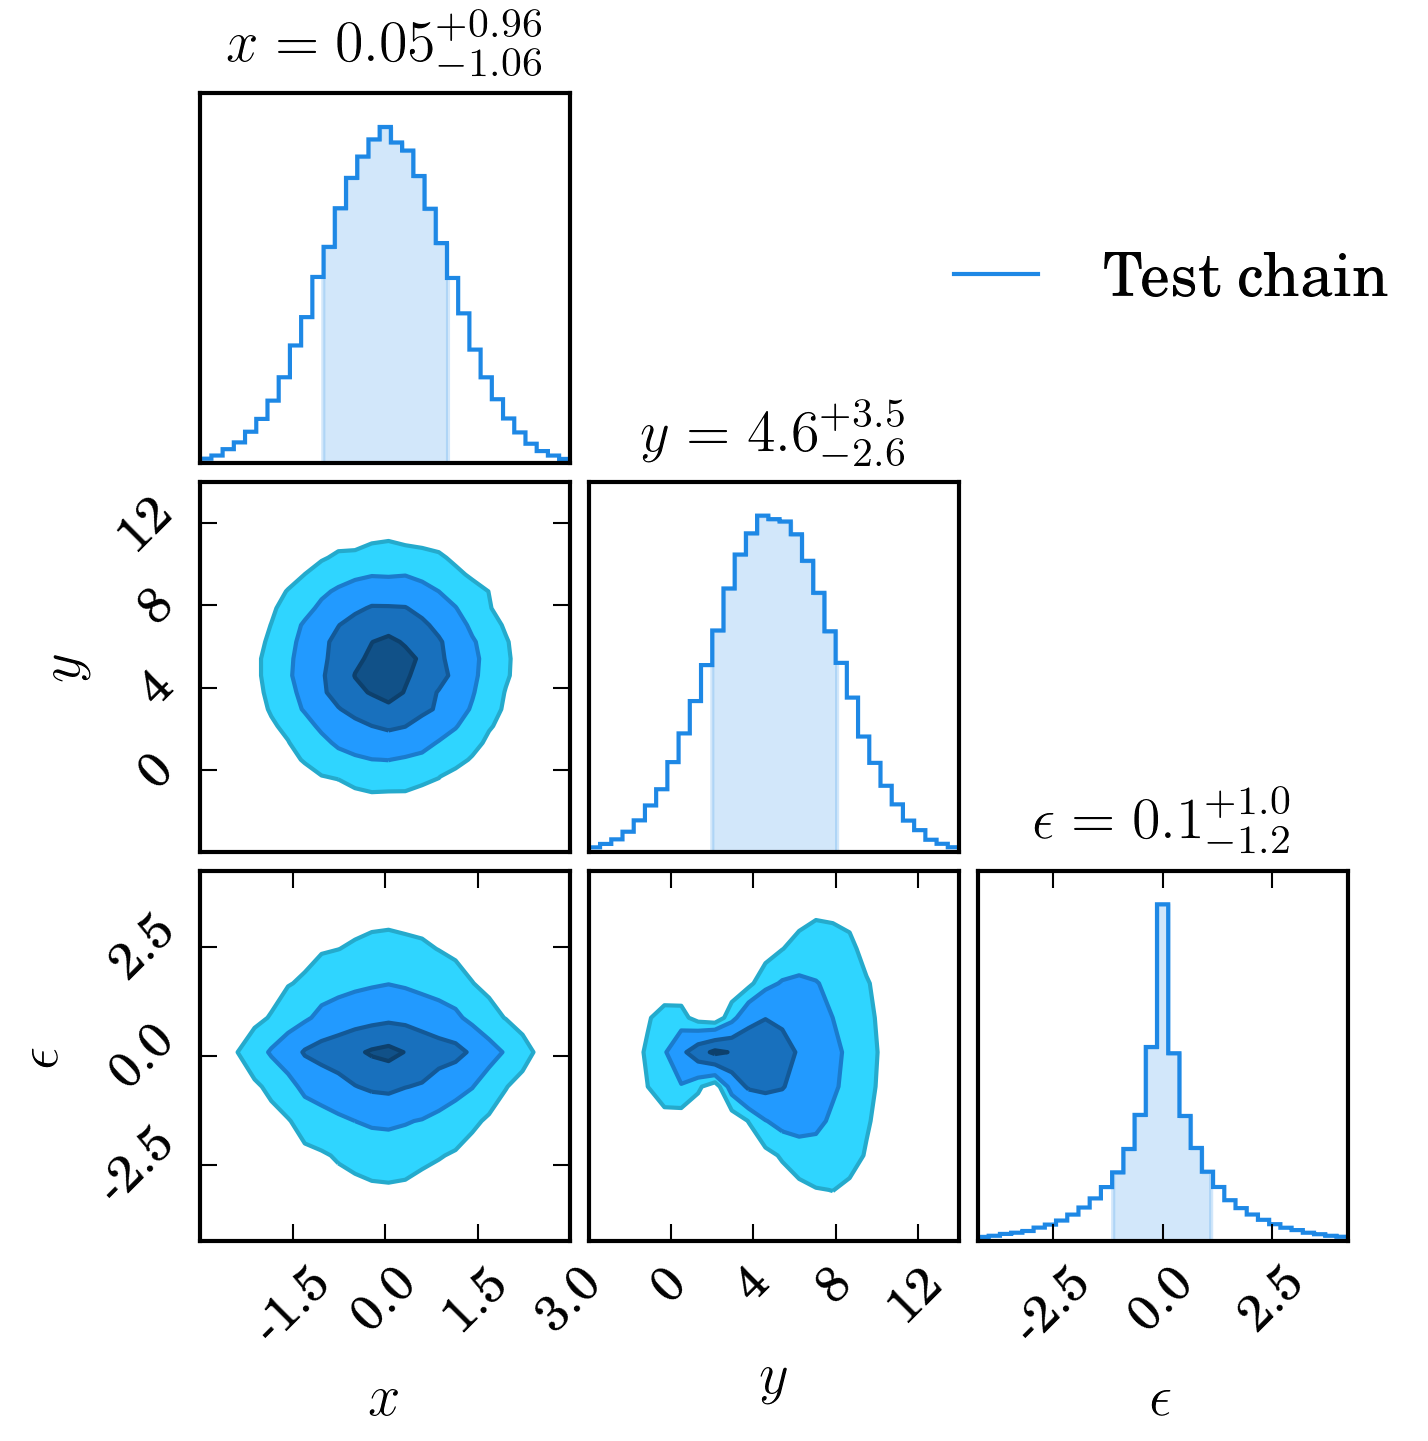
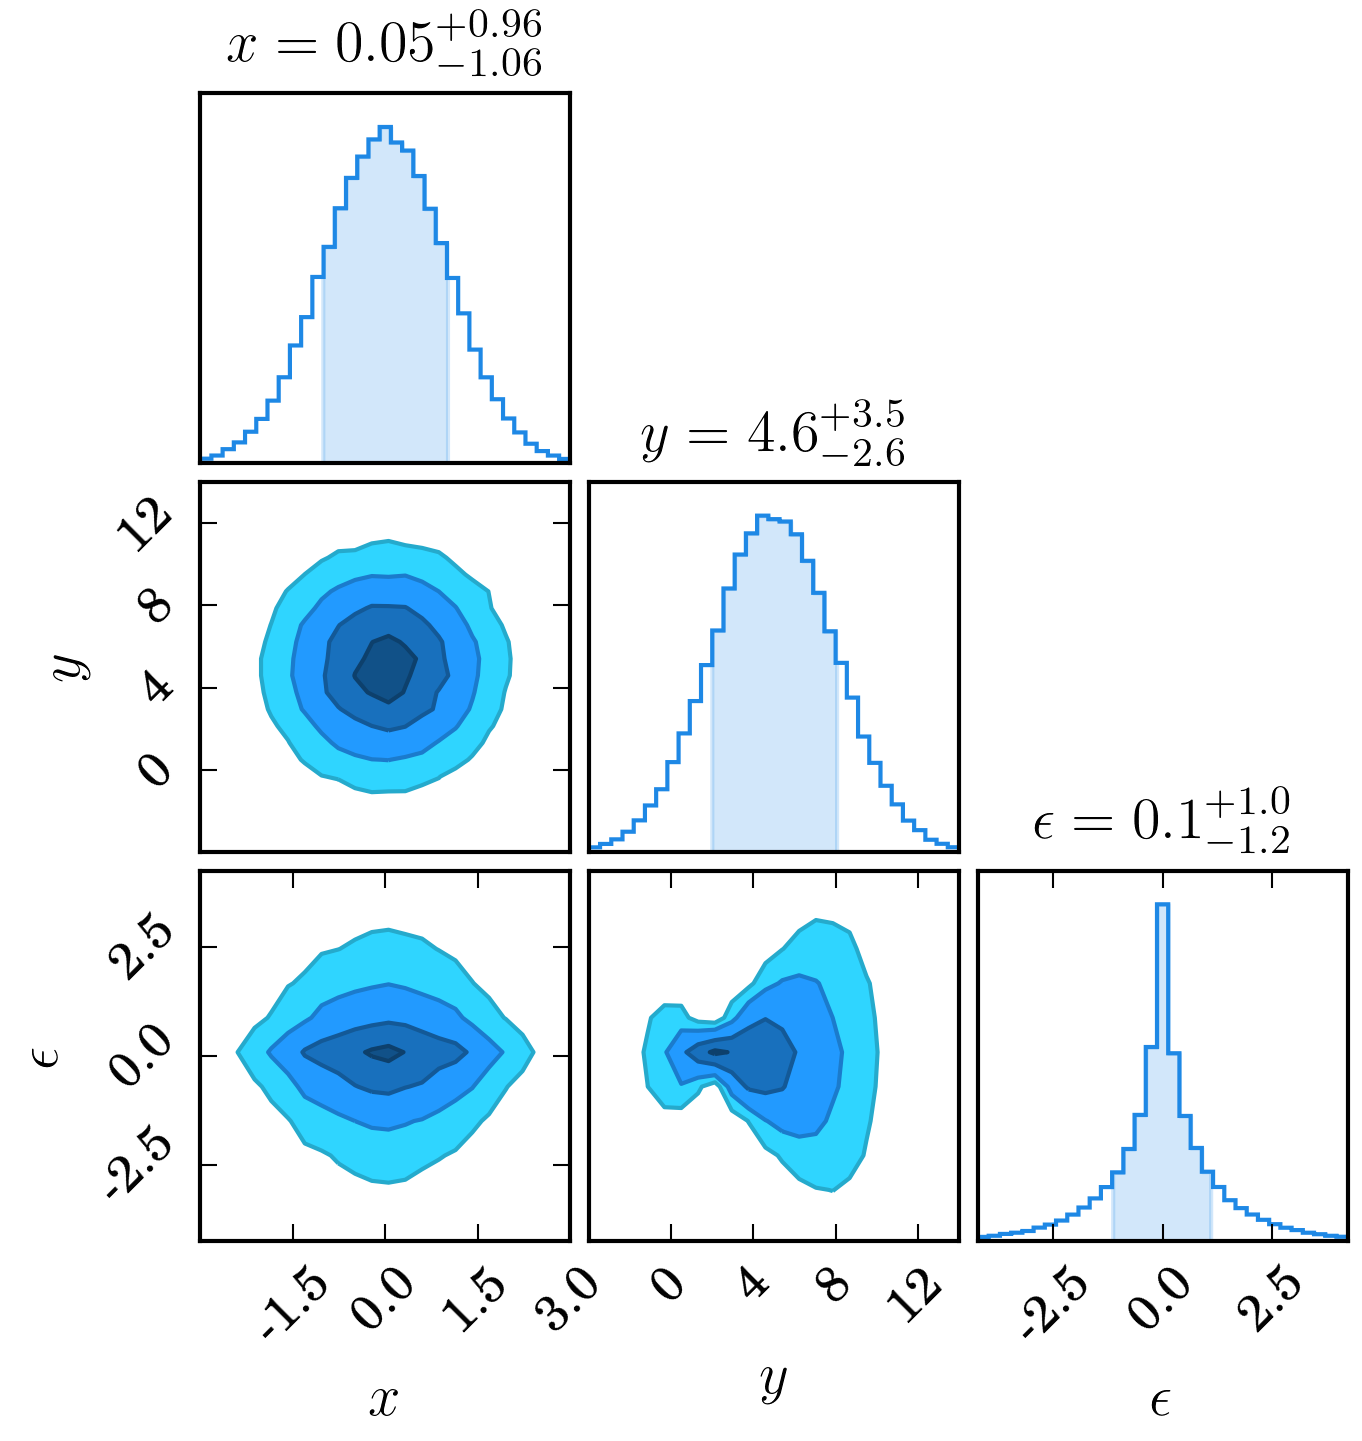
More documentation updates

diff --git a/dessn/chain/demoThreeChains.py b/dessn/chain/demoThreeChains.py
@@ -2,24 +2,6 @@ import numpy as np
 from dessn.chain.chain import ChainConsumer
 
 
-class DemoThreeChains:
-    """ The multiple chain demo for Chain Consumer. Dummy class used to get documentation caught by ``sphinx-apidoc``,
-    it servers no other purpose.
-
-    Running this file in python creates three random data sets, representing three separate chains.
-
-    First, we create a consumer and load the first two chains, and tell it to plot with filled contours.
-
-    The second thing we do is create a different consumer, and load all three chains into it. We also supply the
-    parameter labels the first time we load in a chain. The plot for this is saved to the png file below:
-
-    .. figure::     ../dessn/chain/demoThreeChains.png
-        :align:     center
-
-    """
-    def __init__(self):
-        pass
-
 if __name__ == "__main__":
     ndim, nsamples = 3, 200000
     np.random.seed(0)
@@ -39,12 +21,10 @@ if __name__ == "__main__":
     data3[:, 1] += 2
     data3[:, 1] = data3[:, 2] * 2 - 5
 
-    # You can plot the data directly without worrying about labels like the single chain example
-    ChainConsumer().add_chain(data).add_chain(data2).configure_contour(contourf=True).plot(display=True)
-
-    # If you pass in parameter labels and only one chain, you can also get parameter bounds
+    # If the parameters are the same between chains, you can just pass it the
+    # first time, and they will become the default parameters.
     c = ChainConsumer()\
         .add_chain(data, parameters=["$x$", "$y$", r"$\epsilon$"], name="Test chain")\
         .add_chain(data2, name="Chain2")\
         .add_chain(data3, name="Chain3")\
-        .plot(display=True, filename="demoThreeChains.png")
+        .plot(filename="demoThreeChains.png")

diff --git a/dessn/chain/demoTwoDisjointChains.py b/dessn/chain/demoTwoDisjointChains.py
@@ -2,28 +2,6 @@ import numpy as np
 from dessn.chain.chain import ChainConsumer
 
 
-class DemoTwoDisjointChains:
-    r""" The multiple chain demo for Chain Consumer. Dummy class used to get documentation caught by ``sphinx-apidoc``,
-    it servers no other purpose.
-
-    Running this file in python creates two random data sets, representing two separate chains, *for two separate models*.
-
-    It is sometimes the case that we wish to compare models which have partially overlapping parameters. For example,
-    we might fit a framework which depends has cosmology dependend on :math:`\Omega_m` and :math:`\Omega_\Lambda`, where we
-    assume :math:`w = 1`. Alternatively, we might assume flatness, and therefore fix :math:`\Omega_\Lambda` but instead
-    vary the equation of state :math:`w`. The good news is, you can visualise them both at once!
-
-
-    The second thing we do is create a consumer, and load both chains into it. As we have different parameters for each
-    chain we supply the right parameters for each chain. The plot for this is saved to the png file below:
-
-    .. figure::     ../dessn/chain/demoTwoDisjointChains.png
-        :align:     center
-
-    """
-    def __init__(self):
-        pass
-
 if __name__ == "__main__":
     ndim, nsamples = 4, 200000
     np.random.seed(0)
@@ -43,4 +21,4 @@ if __name__ == "__main__":
     c = ChainConsumer()
     c.add_chain(data, parameters=["$x$", "$y$", r"$\alpha$", r"$\beta$"])
     c.add_chain(data2, parameters=["$x$", "$y$", r"$\alpha$", r"$\gamma$"])
-    c.plot(figsize="page", display=True, filename="demoTwoDisjointChains.png")
+    c.plot(display=True, filename="demoTwoDisjointChains.png")

diff --git a/dessn/chain/demoOneChain.py b/dessn/chain/demoOneChain.py
@@ -2,32 +2,6 @@ import numpy as np
 from dessn.chain.chain import ChainConsumer
 
 
-class DemoOneChain:
-    """ The single chain demo for Chain Consumer. Dummy class used to get documentation caught
-    by ``sphinx-apidoc``, it servers no other purpose.
-
-    Running this file in python creates a random data set, representing a single MCMC chain,
-    such as you might get from ``emcee``.
-
-    First, we create a consumer and load the chain, and tell it to plot the chain without
-    knowing the parameter labels. It is set to so that the plot should pop up. To continue
-    running the code, close the plot.
-
-    The second thing we do is create a different consumer, and load the chain into it.
-    We also supply the parameter labels. By default, as we only have a single chain,
-    contours are filled, the marginalised histograms are shaded, and the best fit
-    parameter bounds are shown as axis titles.
-
-    The plot for this is saved to the png file below:
-
-    .. figure::     ../dessn/chain/demoOneChain.png
-        :align:     center
-
-    """
-    def __init__(self):
-        pass
-
-
 if __name__ == "__main__":
     ndim, nsamples = 3, 200000
     np.random.seed(1)
@@ -37,5 +11,5 @@ if __name__ == "__main__":
 
     # If you pass in parameter labels and only one chain, you can also get parameter bounds
     ChainConsumer()\
-        .add_chain(data, parameters=["$x$", "$y$", r"$\epsilon$"], name="Test chain")\
+        .add_chain(data, parameters=["$x$", "$y$", r"$\epsilon$"])\
         .plot(filename="demoOneChain.png")

diff --git a/dessn/chain/demoTable.py b/dessn/chain/demoTable.py
@@ -2,21 +2,6 @@ import numpy as np
 from dessn.chain.chain import ChainConsumer
 
 
-class DemoTable:
-    r""" The multiple chain demo for Chain Consumer. Dummy class used to get documentation caught by ``sphinx-apidoc``,
-    it servers no other purpose.
-
-    Running this file in python creates two random data sets, representing two separate chains, *for two separate models*.
-
-    This example shows the output of calling the :func:`~dessn.chain.chain.ChainConsumer.get_latex_table` method.
-
-    .. figure::     ../dessn/chain/demoTable.png
-        :align:     center
-
-    """
-    def __init__(self):
-        pass
-
 if __name__ == "__main__":
     ndim, nsamples = 4, 200000
     np.random.seed(0)
@@ -36,5 +21,6 @@ if __name__ == "__main__":
     c = ChainConsumer()
     c.add_chain(data, parameters=["$x$", "$y$", r"$\alpha$", r"$\beta$"], name="Model A")
     c.add_chain(data2, parameters=["$x$", "$y$", r"$\alpha$", r"$\gamma$"], name="Model B")
-    table = c.get_latex_table(caption="The maximum likelihood results for the tested models", label="tab:example")
+    table = c.get_latex_table(caption="The maximum likelihood results for the tested models",
+                              label="tab:example")
     print(table)

diff --git a/dessn/chain/demo_introduction.py b/dessn/chain/demo_introduction.py
@@ -1,0 +1,11 @@
+import numpy as np
+from dessn.chain.chain import ChainConsumer
+
+
+mean = np.array([0.0, 4.0])
+cov = np.array([[1.0, 0.7], [0.7, 1.5]])
+data = np.random.multivariate_normal(mean, cov, size=100000)
+
+c = ChainConsumer()
+c.add_chain(data, parameters=["$x_1$", "$x_2$"])
+c.plot(filename="demoIntroduction.png", figsize="column", truth=[0.0, 4.0])

diff --git a/doc/chain_examples.rst b/doc/chain_examples.rst
@@ -1,0 +1,109 @@
+
+.. _chain_examples:
+
+=======================
+Chain Consumer Examples
+=======================
+
+
+
+Single Chain Example
+--------------------
+
+
+Running this file in python creates a random data set, representing a single MCMC chain,
+such as you might get from ``emcee``.
+
+
+The first thing we do is create a consumer, and load the chain into it.
+
+We also supply the parameter labels. By default, as we only have a single chain,
+contours are filled, the marginalised histograms are shaded, the best fit
+parameter bounds are shown as axis titles, and the legend is not displayed.
+
+
+.. literalinclude:: ../dessn/chain/demoOneChain.py
+   :language: python
+
+
+.. figure::     ../dessn/chain/demoOneChain.png
+    :align:     center
+
+
+
+Two Disjoint Chains Example
+---------------------------
+
+Running this file in python creates two random data sets, representing two separate
+chains, *for two separate models*.
+
+It is sometimes the case that we wish to compare models which have partially
+overlapping parameters. For example, we might fit a framework which depends
+has cosmology dependent on :math:`\Omega_m` and :math:`\Omega_\Lambda`, where we
+assume :math:`w = 1`. Alternatively, we might assume flatness, and therefore
+fix :math:`\Omega_\Lambda` but instead vary the equation of state :math:`w`.
+The good news is, you can visualise them both at once!
+
+
+As we have different parameters for each chain we supply the right parameters
+for each chain. Also note that we set ``display=True`` when plotting,
+so the plot will also pop up if any backend is enabled.
+
+.. literalinclude:: ../dessn/chain/demoTwoDisjointChains.py
+   :language: python
+
+
+.. figure::     ../dessn/chain/demoTwoDisjointChains.png
+    :align:     center
+
+
+Three Datasets
+--------------
+
+Running this file in python creates three random data sets, representing
+three separate chains.
+
+We create a consumer and load all three chains into it. We also supply the
+parameter labels the first time we load in a chain.
+
+.. literalinclude:: ../dessn/chain/demoThreeChains.py
+   :language: python
+
+.. figure::     ../dessn/chain/demoThreeChains.png
+    :align:     center
+
+
+A LaTex Table
+-------------
+
+Running this file in python creates two random data sets, representing two separate chains,
+*for two separate models*.
+
+This example shows the output of calling the
+:func:`~dessn.chain.chain.ChainConsumer.get_latex_table` method.
+
+.. literalinclude:: ../dessn/chain/demoThreeChains.py
+   :language: python
+
+The string output given is shown below, along with an image of the table rendered
+in LaTeX.
+
+.. code-block:: latex
+
+    \begin{table}[]
+        \centering
+        \caption{The maximum likelihood results for the tested models}
+        \label{tab:example}
+        \begin{tabular}{cccccc}
+            \hline
+            Model & $x$ & $y$ & $\alpha$ & $\beta$ & $\gamma$ \\
+            \hline
+            Model A & $-0.04^{+1.05}_{-0.97}$ & $5.3^{+2.8}_{-3.3}$ & $-0.14^{+1.36}_{-0.98}$ & $-0.05^{+0.28}_{-0.16}$ & -- \\
+            Model B & $-0.85^{+0.86}_{-1.16}$ & $-5.0^{+2.1}_{-2.0}$ & $0.3^{+1.8}_{-1.2}$ & -- & $1.9^{+1.6}_{-1.5}$ \\
+            \hline
+        \end{tabular}
+    \end{table}
+
+.. figure::     ../dessn/chain/demoTable.png
+    :align:     center
+

diff --git a/doc/index.rst b/doc/index.rst
@@ -33,7 +33,11 @@ different ways), and these are detailed in :py:mod:`dessn.examples.discrete` and
 
 ------------
 
+Chain Consumer
+--------------
 
+Also written for this project is a robust tool that consumes chains and produces plots.
+This tool is detailed at :py:mod:`dessn.chain`.
 
 
 Core
@@ -46,8 +50,7 @@ and edges allowed, please see the documentation located at :py:mod:`dessn.framew
 Utilities
 ---------
 
-For examples and usage instructions on how to use the plotting library included in this project,
-see :py:mod:`dessn.chain`.
+Stuff
 
 
 Implementations
@@ -69,3 +72,4 @@ The general project structure is as follows:
    :maxdepth: 2
 
    examples
+   chain

diff --git a/doc/chain.rst b/doc/chain.rst
@@ -1,0 +1,29 @@
+
+.. _chain:
+
+==============
+Chain Consumer
+==============
+
+I wrote this code after realising that the fantastic library
+`corner <https://github.com/dfm/corner.py>`_ could not plot everything I
+wanted to plot. And so here we are!
+
+
+
+.. literalinclude:: ../dessn/chain/demo_introduction.py
+   :language: python
+
+
+The output figure is displayed below.
+
+.. figure::     ../dessn/chain/demoIntroduction.png
+   :align:     center
+
+For examples and API usage, please follow the links.
+
+.. toctree::
+   :maxdepth: 2
+
+   chain_examples
+   chain_api

diff --git a/doc/chain_api.rst b/doc/chain_api.rst
@@ -1,0 +1,11 @@
+
+.. _chain_api:
+
+==================
+Chain Consumer API
+==================
+
+.. autoclass:: dessn.chain.chain.ChainConsumer
+    :members:
+    :undoc-members:
+    :show-inheritance:
